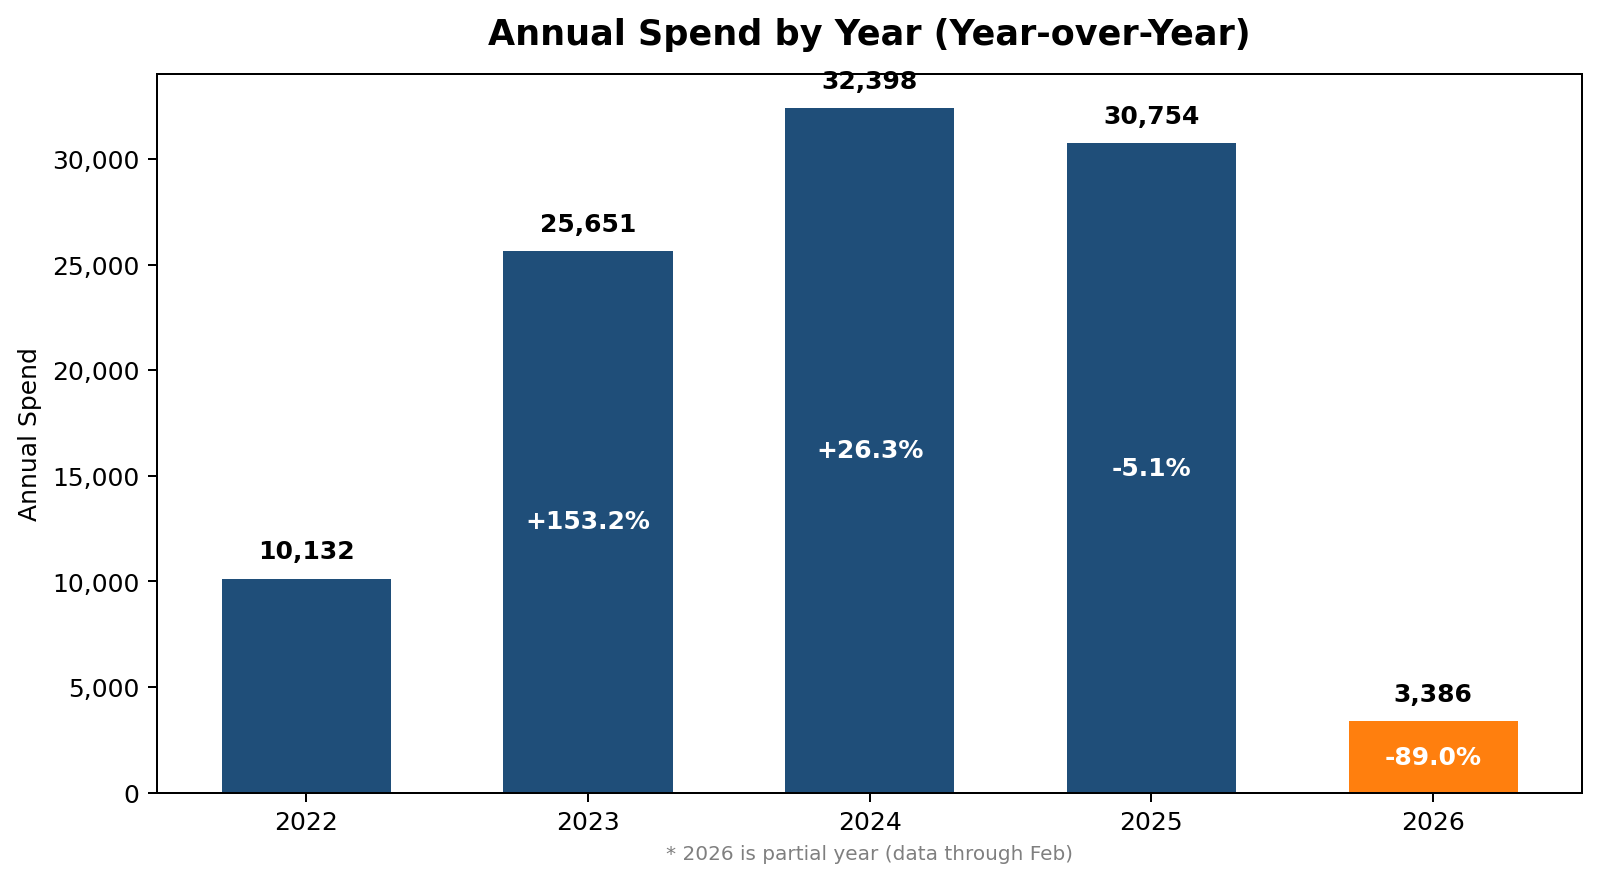
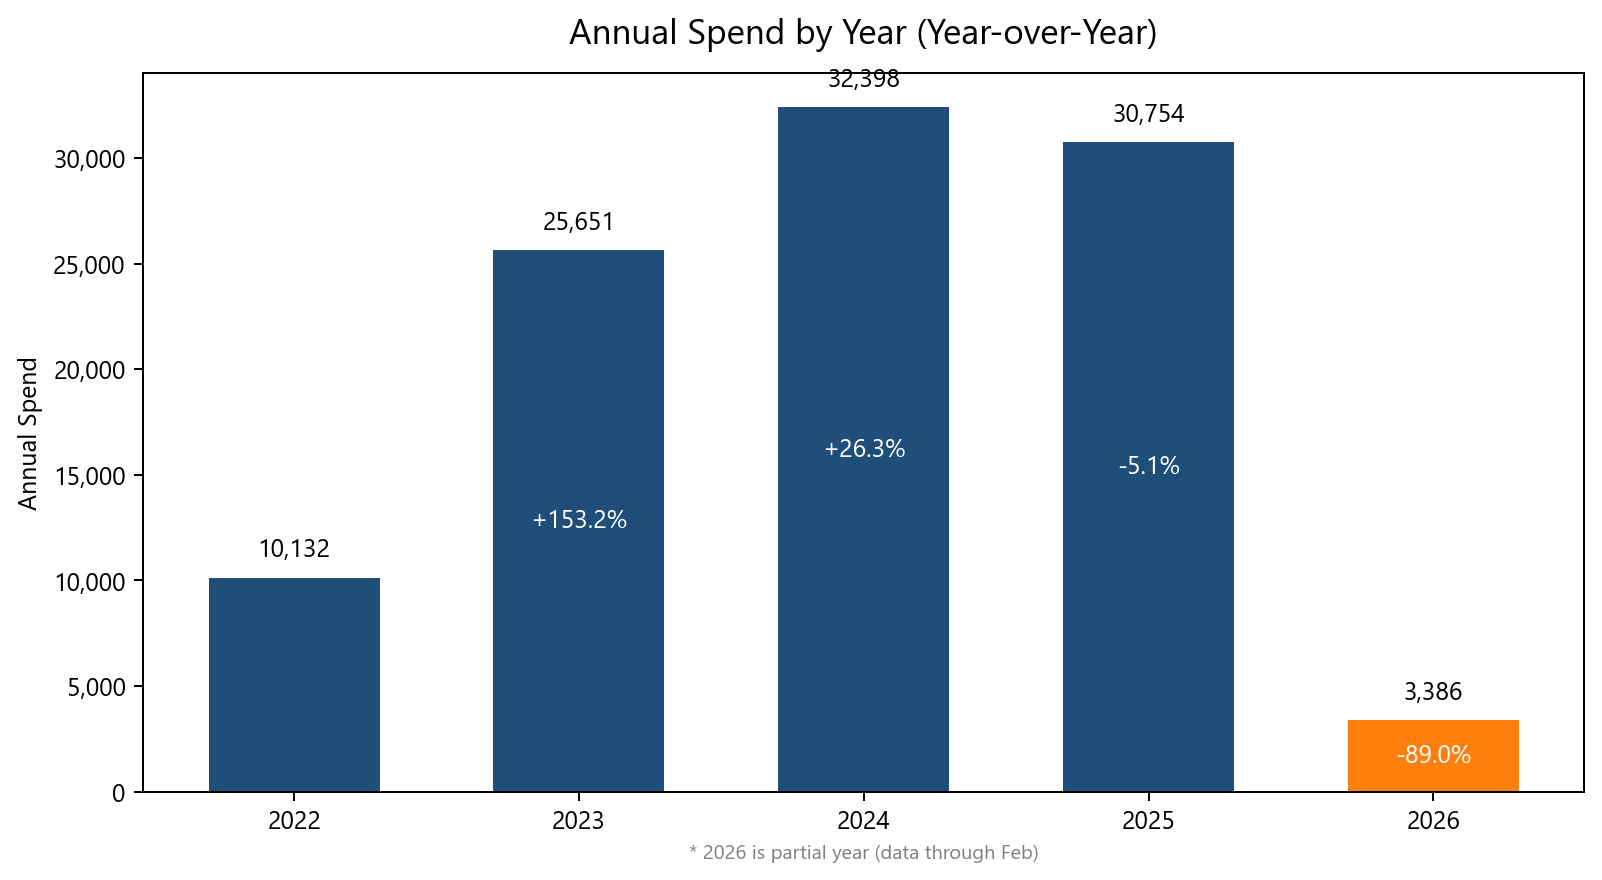
currency

diff --git a/scripts/generate_charts.py b/scripts/generate_charts.py
@@ -1,6 +1,7 @@
 import os
 import pandas as pd
 import matplotlib.pyplot as plt
+import matplotlib as mpl
 import matplotlib.dates as mdates
 import matplotlib.ticker as mticker
 import numpy as np
@@ -8,6 +9,14 @@ import numpy as np
 INPUT_PATH = "data/spending.xlsx"
 OUTPUT_DIR = "charts"
 
+# Use a font stack that includes the manat sign (₼) on Windows.
+mpl.rcParams["font.sans-serif"] = [
+    "Segoe UI Symbol",
+    "Segoe UI",
+    "Arial Unicode MS",
+    "DejaVu Sans",
+]
+mpl.rcParams["font.family"] = "sans-serif"
 # Consistent professional palette
 C = {
     "navy":    "#1f4e79",
@@ -93,7 +102,7 @@ def save_chart(fig, filename):
     fig.tight_layout()
     fig.savefig(path, dpi=180, bbox_inches="tight")
     plt.close(fig)
-    print(f"  ✓ {filename}")
+    print(f"  OK {filename}")
 
 
 # ── 1. Total Spend by Category (with avg line + value labels) ─────────────────
@@ -220,7 +229,7 @@ def chart_cumulative_spend(df):
             ax.axhline(milestone, color=C["muted"], linestyle="--", linewidth=1, alpha=0.7)
             ax.text(
                 dates[0], milestone + 1_200,
-                f"${milestone // 1000}k",
+                f"{milestone // 1000}k",
                 fontsize=8, color=C["muted"],
             )
 
@@ -288,7 +297,7 @@ def chart_frequency_vs_value(df):
     # Avg transaction size embedded inside each bar
     for i, (_, row) in enumerate(by_cat.iterrows()):
         if row["total_spend"] > 1000:
-            ax1.text(i, row["total_spend"] / 2, f"avg\n${row['avg']:.0f}",
+            ax1.text(i, row["total_spend"] / 2, f"avg\n{row['avg']:.0f}",
                      ha="center", va="center", fontsize=7, color="white", fontweight="bold")
 
     ax2 = ax1.twinx()
@@ -362,7 +371,7 @@ def chart_avg_transaction_trend(df):
 
     year_xticks(ax, monthly_avg.index)
     ax.set_title("Average Transaction Size Over Time (Habit Drift)", fontsize=14, fontweight="bold", pad=12)
-    ax.set_ylabel("Avg Transaction ($)")
+    ax.set_ylabel("Avg Transaction")
     format_currency(ax)
     ax.legend(fontsize=9)
     save_chart(fig, "avg_transaction_trend.png")
@@ -427,7 +436,7 @@ def main():
     chart_avg_transaction_trend(df)
     chart_category_yoy(df)
 
-    print(f"\nDone — 11 charts saved to {OUTPUT_DIR}/")
+    print(f"\nDone - 11 charts saved to {OUTPUT_DIR}/")
 
 
 if __name__ == "__main__":

diff --git a/docs/savings_strategy.md b/docs/savings_strategy.md
@@ -11,7 +11,7 @@ Reference charts:
 - `charts/total_spend_by_category.png`
 - `charts/spend_concentration.png`
 
-What the data shows: The average reference line on the category chart separates the high-impact categories from the long tail. The concentration chart confirms that the top categories collectively dominate the total, with each bar showing both the dollar amount and the percentage share.
+What the data shows: The average reference line on the category chart separates the high-impact categories from the long tail. The concentration chart confirms that the top categories collectively dominate the total, with each bar showing both the manat amount and the percentage share.
 
 Strategy rules:
 - Set caps only on categories that appear above the average line. Categories below it are not worth the attention.
@@ -48,11 +48,11 @@ Strategy rules:
 Reference charts:
 - `charts/cumulative_spend.png`
 
-What the data shows: The cumulative curve with milestone markers ($25k, $50k, $75k, $100k) shows the pace of committed spend at any point in time. If the curve reaches a milestone ahead of schedule, the remaining months must compensate.
+What the data shows: The cumulative curve with milestone markers (25k AZN, 50k AZN, 75k AZN, 100k AZN) shows the pace of committed spend at any point in time. If the curve reaches a milestone ahead of schedule, the remaining months must compensate.
 
 Strategy rules:
 - At each milestone, pause and assess whether the pace is consistent with the annual target.
-- If $50k is reached before the end of July (month 6 of 12), the second half of the year needs to average less than the first half to stay on track.
+- If 50k AZN is reached before the end of July (month 6 of 12), the second half of the year needs to average less than the first half to stay on track.
 - Schedule large known expenses to land after a milestone, not before — this prevents the curve from accelerating ahead of plan.
 
 ---

diff --git a/README.md b/README.md
@@ -1,5 +1,5 @@
 **Spending Snapshot (Jul 2022–Feb 2026)**
-Over 44 months I spent $102,321 across 6,606 transactions in 23 categories. This document distills that data into the decisions that actually move the total — not micro-optimizations, but the few levers that shape the budget path.
+Over 44 months I spent 102,321 AZN across 6,606 transactions in 23 categories. This document distills that data into the decisions that actually move the total — not micro-optimizations, but the few levers that shape the budget path.
 
 **Key Findings**
 - Three categories (Restaurant, Coffee, Market) account for nearly half of all transactions but under 45% of total spend — high frequency, moderate damage.
@@ -54,13 +54,13 @@ How this guides decisions:
 **4) Cumulative Pace: How the Budget Path Was Set**
 ![Cumulative Spend Over 44 Months](charts/cumulative_spend.png)
 
-What the chart shows: The cumulative spend curve from day one to the present, with milestone markers at $25k, $50k, $75k, and $100k. The shaded area shows total committed spend at any point in time.
+What the chart shows: The cumulative spend curve from day one to the present, with milestone markers at 25k AZN, 50k AZN, 75k AZN, and 100k AZN. The shaded area shows total committed spend at any point in time.
 
 Why this matters: The slope of this curve is determined early. Large early-period expenses lock in the trajectory and compress the room to maneuver later.
 
 How this guides decisions:
 - Large planned expenses are scheduled to avoid clustering in the same quarter.
-- The $100k milestone was crossed before February 2026 — awareness of the pace informs what the next 12 months should look like.
+- The 100k AZN milestone was crossed before February 2026 — awareness of the pace informs what the next 12 months should look like.
 
 ---
 
